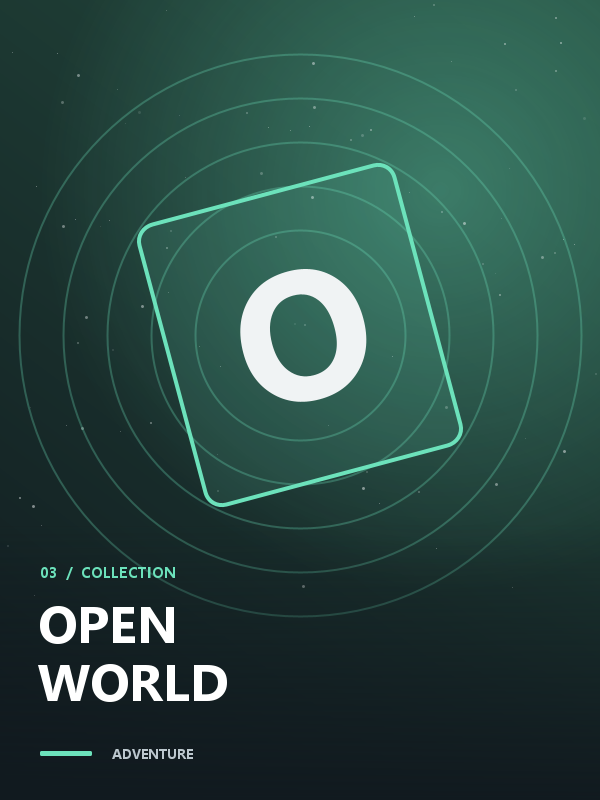
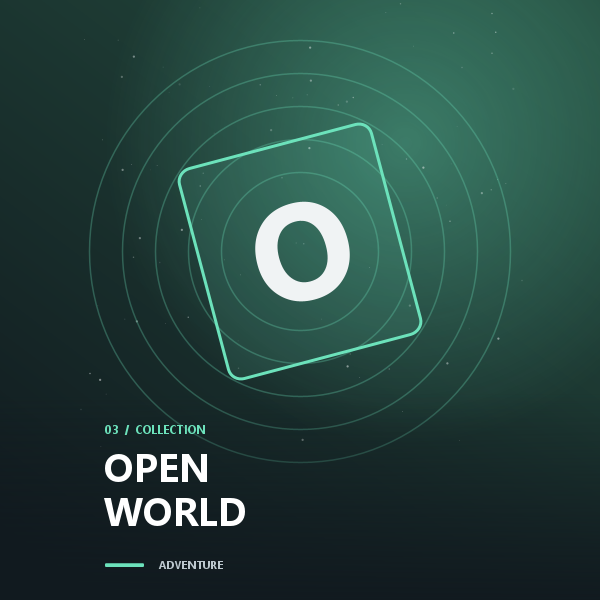
feat(tv): demo covers in landscape, square and 2:3 shapes
Three demo covers differ in shape, so every screenshot shows how a banner,
a square and a 2:3 poster sit in a poster. The generator can write only the
art with --art-only; the other seven covers are byte-identical.

diff --git a/scripts/demo/GenerateAssets.java b/scripts/demo/GenerateAssets.java
@@ -38,15 +38,30 @@ public class GenerateAssets {
         g.fill(new Ellipse2D.Float(x - radius, y - radius, radius * 2, radius * 2));
     }
 
+    // Covers are 600x800 unless listed: a few differ so every client shows how a banner, a square and a 2:3 poster fit.
+    static int[] artSize(int index) {
+        switch (index) {
+            case 1: return new int[] {920, 430};  // landscape banner, like a Steam header
+            case 2: return new int[] {600, 600};  // square
+            case 3: return new int[] {600, 900};  // 2:3 poster
+            default: return new int[] {600, 800};
+        }
+    }
+
     static void art(Path directory) throws IOException {
         Files.createDirectories(directory);
         for (int index = 0; index < TITLES.length; index++) {
-            BufferedImage image = new BufferedImage(600, 800, BufferedImage.TYPE_INT_RGB);
+            int[] dims = artSize(index);
+            BufferedImage image = new BufferedImage(dims[0], dims[1], BufferedImage.TYPE_INT_RGB);
             Graphics2D g = graphics(image);
+            // The 600x800 composition is scaled to fit and bottom-aligned; the background runs on past its edges.
+            double fit = Math.min(dims[0] / 600.0, dims[1] / 800.0);
+            g.translate((dims[0] - 600 * fit) / 2, dims[1] - 800 * fit);
+            g.scale(fit, fit);
             Color accent = ACCENTS[index];
             g.setPaint(new GradientPaint(0, 800, INK, 600, 0,
                     new Color(accent.getRed() / 3, accent.getGreen() / 3, accent.getBlue() / 3)));
-            g.fillRect(0, 0, 600, 800);
+            g.fillRect(-2000, -2000, 5000, 5000);
             glow(g, 440, 190, 400, new Color(accent.getRed(), accent.getGreen(), accent.getBlue(), 95));
             Random random = new Random(810 + index);
             for (int p = 0; p < 90; p++) {
@@ -71,7 +86,7 @@ public class GenerateAssets {
             text(g, GLYPHS[index], 182, -66, 65, new Color(240, 243, 244));
             g.setTransform(original);
             g.setPaint(new GradientPaint(0, 520, new Color(17, 26, 31, 0), 0, 800, INK));
-            g.fillRect(0, 520, 600, 280);
+            g.fillRect(-2000, 520, 5000, 2280);
             text(g, String.format("%02d  /  COLLECTION", index + 1), 16, 40, 578, accent);
             String[] words = TITLES[index].toUpperCase(java.util.Locale.ROOT).split(" ");
             for (int word = 0; word < words.length; word++) text(g, words[word], 52, 38, 643 + word * 58, Color.WHITE);
@@ -210,6 +225,7 @@ public class GenerateAssets {
     public static void main(String[] args) throws Exception {
         Path assets = Path.of(args[0]);
         art(assets.resolve("art"));
+        if (args.length > 2 && args[2].equals("--art-only")) return;
         Process encoder = new ProcessBuilder(args[1], "-y", "-hide_banner", "-loglevel", "warning",
                 "-f", "rawvideo", "-pixel_format", "bgr24", "-video_size", "1920x1080", "-framerate", "60",
                 "-i", "pipe:0", "-an", "-c:v", "libx264", "-preset", "fast", "-crf", "19", "-threads", "2",
